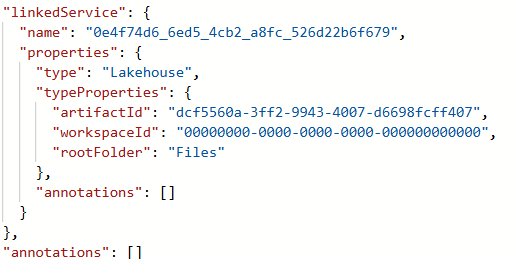
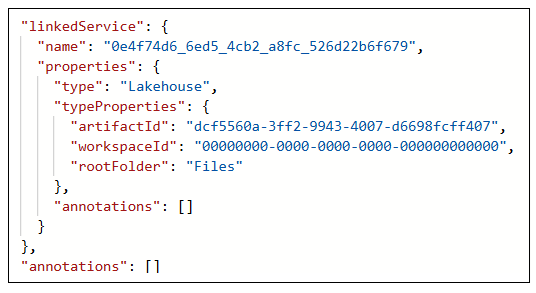
updates

Changed region(s): [[0.0, 0.0, 0.9922, 1.0]]

diff --git a/A comprehensive guide to Fabric CI-CD.md b/A comprehensive guide to Fabric CI-CD.md
@@ -929,8 +929,7 @@ item. This is where the **logicalId** comes in. While each lakehouse
 instance has it own unique **id**, all three lakehouses share the same
 **logicalid**.
 
-<img src="./images/bestpractices/media/image41.png"
-style="width:6.85279in;height:1.17767in" />
+<img src="./images/bestpractices/media/image41.png"  style="width:60%" />
 
 The role of the **logicalId** is important because it allows Fabric to
 avoid persisting workspace-specific item ids into GIT. This level of
@@ -939,8 +938,7 @@ auto-binding. As an example, examine the following code snippet from the
 item definition for a pipeline that has a dependency on a lakehouse in
 the same workspace.
 
-<img src="./images/bestpractices/media/image42.png"
-style="width:3.39906in;height:1.20982in" />
+<img src="./images/bestpractices/media/image42.png" style="width:50%" />
 
 You should notice that the **workspaceId** does not have value that
 references an actual workspace id. Instead, the **workspaceId** has an